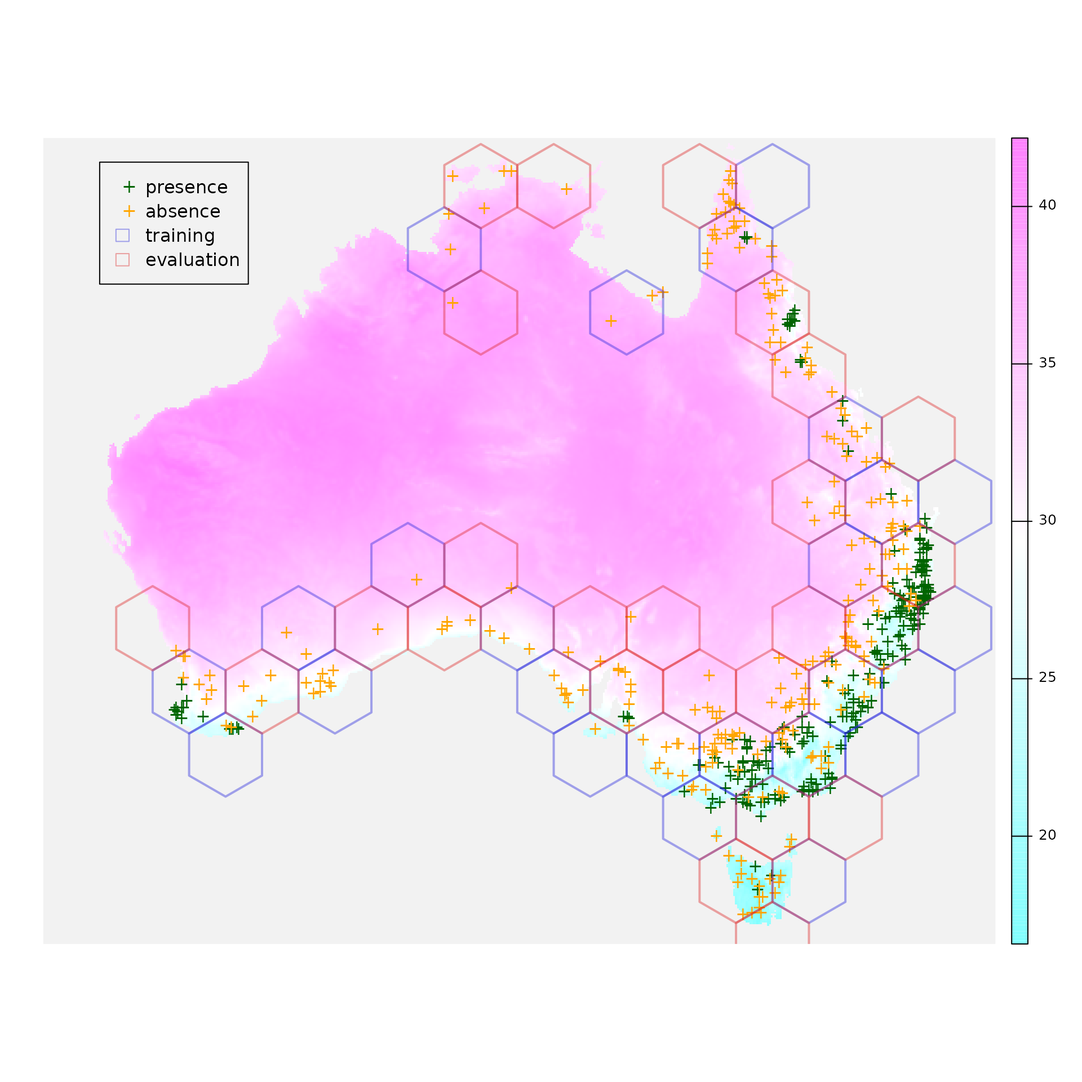
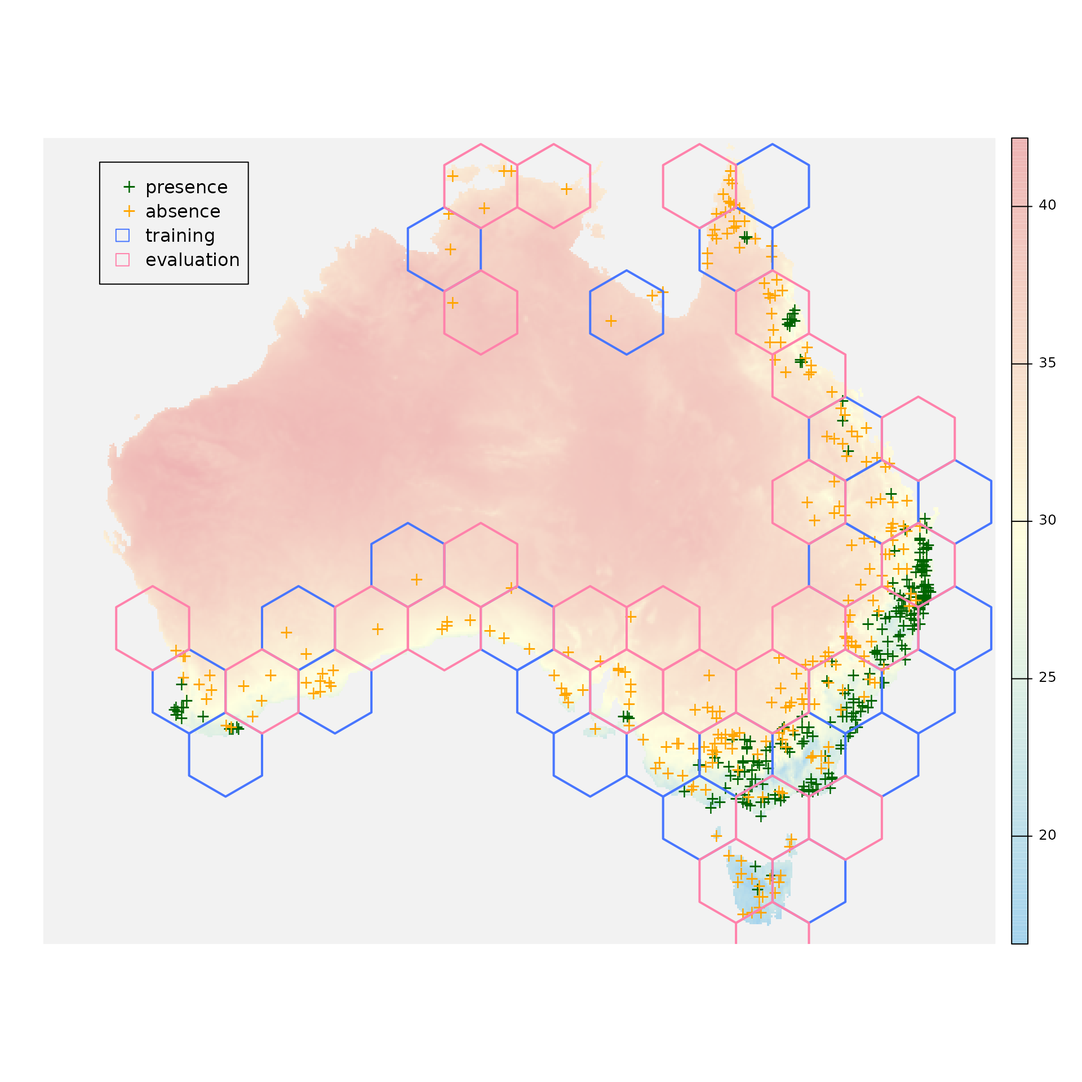
Deploying to gh-pages from @ bfakos/confcons@ba46d39bda17f9d1cd0ccc5d429870897419a0bd 🚀

diff --git a/articles/introduction_to_confcons.html b/articles/introduction_to_confcons.html
@@ -75,7 +75,7 @@
                         <h4 data-toc-skip class="author">Ákos
 Bede-Fazekas, Imelda Somodi</h4>
             
-            <h4 data-toc-skip class="date">2024-02-26</h4>
+            <h4 data-toc-skip class="date">2024-02-27</h4>
       
       <small class="dont-index">Source: <a href="https://github.com/bfakos/confcons/blob/HEAD/vignettes/introduction_to_confcons.Rmd" class="external-link"><code>vignettes/introduction_to_confcons.Rmd</code></a></small>
       <div class="d-none name"><code>introduction_to_confcons.Rmd</code></div>
@@ -173,7 +173,8 @@ packages were built):</p>
 <h3 id="data-preparation">Data preparation<a class="anchor" aria-label="anchor" href="#data-preparation"></a>
 </h3>
 <p>Let’s open the environmental raster that contains four climatic
-layers at 800 m resolution in UTM projection:</p>
+layers at 5’ resolution in GDA2020 (Geocentric Datum of Australia)
+projection:</p>
 <div class="sourceCode" id="cb3"><pre class="downlit sourceCode r">
 <code class="sourceCode R"><span><span class="va">environment</span> <span class="op">&lt;-</span> <span class="fu">terra</span><span class="fu">::</span><span class="fu"><a href="https://rspatial.github.io/terra/reference/rast.html" class="external-link">rast</a></span><span class="op">(</span><span class="fu"><a href="https://rdrr.io/r/base/list.files.html" class="external-link">list.files</a></span><span class="op">(</span><span class="fu"><a href="https://rdrr.io/r/base/system.file.html" class="external-link">system.file</a></span><span class="op">(</span><span class="st">"extdata/au/"</span>, package <span class="op">=</span> <span class="st">"blockCV"</span><span class="op">)</span>, full.names <span class="op">=</span> <span class="cn">TRUE</span><span class="op">)</span><span class="op">)</span></span>
 <span><span class="fu">terra</span><span class="fu">::</span><span class="fu"><a href="https://rspatial.github.io/terra/reference/dimensions.html" class="external-link">nlyr</a></span><span class="op">(</span><span class="va">environment</span><span class="op">)</span></span>
@@ -205,28 +206,28 @@ Features:</p>
 <span>                              size <span class="op">=</span> <span class="fl">350000</span>,</span>
 <span>                              k <span class="op">=</span> <span class="fl">2</span>,</span>
 <span>                              selection <span class="op">=</span> <span class="st">"random"</span>,</span>
-<span>                                                            iteration <span class="op">=</span> <span class="fl">50</span>,</span>
+<span>                              iteration <span class="op">=</span> <span class="fl">50</span>,</span>
 <span>                              seed <span class="op">=</span> <span class="fl">12345</span>,</span>
 <span>                              progress <span class="op">=</span> <span class="cn">FALSE</span>,</span>
 <span>                              report <span class="op">=</span> <span class="cn">FALSE</span>,</span>
-<span>                                                            plot <span class="op">=</span> <span class="cn">TRUE</span><span class="op">)</span></span></code></pre></div>
+<span>                              plot <span class="op">=</span> <span class="cn">TRUE</span><span class="op">)</span></span></code></pre></div>
 <p><img src="introduction_to_confcons_files/figure-html/unnamed-chunk-7-1.png" width="700"></p>
 <div class="sourceCode" id="cb7"><pre class="downlit sourceCode r">
 <code class="sourceCode R"><span><span class="va">blocks_sf</span> <span class="op">&lt;-</span> <span class="fu">sf</span><span class="fu">::</span><span class="fu"><a href="https://r-spatial.github.io/sf/reference/st_as_sf.html" class="external-link">st_as_sf</a></span><span class="op">(</span>x <span class="op">=</span> <span class="va">blocks</span><span class="op">$</span><span class="va">blocks</span><span class="op">)</span></span></code></pre></div>
 <p>Let’s see where are our presence and absence points and also which
 polygons will be used for training and which ones for evaluation:</p>
 <div class="sourceCode" id="cb8"><pre class="downlit sourceCode r">
-<code class="sourceCode R"><span><span class="fu"><a href="https://rspatial.github.io/terra/reference/plot.html" class="external-link">plot</a></span><span class="op">(</span>x <span class="op">=</span> <span class="va">environment</span><span class="op">[[</span><span class="st">"bio_5"</span><span class="op">]</span><span class="op">]</span>, axes <span class="op">=</span> <span class="cn">FALSE</span>, col <span class="op">=</span> <span class="fu"><a href="https://rdrr.io/r/grDevices/palettes.html" class="external-link">cm.colors</a></span><span class="op">(</span><span class="fl">255</span><span class="op">)</span>, colNA <span class="op">=</span> <span class="st">"gray95"</span><span class="op">)</span></span>
+<code class="sourceCode R"><span><span class="fu"><a href="https://rspatial.github.io/terra/reference/plot.html" class="external-link">plot</a></span><span class="op">(</span>x <span class="op">=</span> <span class="va">environment</span><span class="op">[[</span><span class="st">"bio_5"</span><span class="op">]</span><span class="op">]</span>, axes <span class="op">=</span> <span class="cn">FALSE</span>, col <span class="op">=</span> <span class="fu"><a href="https://rdrr.io/r/grDevices/colorRamp.html" class="external-link">colorRampPalette</a></span><span class="op">(</span><span class="fu"><a href="https://rdrr.io/r/base/c.html" class="external-link">c</a></span><span class="op">(</span><span class="st">"lightskyblue2"</span>, <span class="st">"lightyellow1"</span>, <span class="st">"rosybrown2"</span><span class="op">)</span><span class="op">)</span><span class="op">(</span><span class="fl">255</span><span class="op">)</span>, colNA <span class="op">=</span> <span class="st">"gray95"</span><span class="op">)</span></span>
 <span><span class="fu"><a href="https://rspatial.github.io/terra/reference/plot.html" class="external-link">plot</a></span><span class="op">(</span>x <span class="op">=</span> <span class="va">occurrences</span><span class="op">[</span><span class="va">occurrences</span><span class="op">$</span><span class="va">occ</span> <span class="op">==</span> <span class="fl">1</span>, <span class="op">]</span>, pch <span class="op">=</span> <span class="st">"+"</span>, col <span class="op">=</span> <span class="st">"darkgreen"</span>, add <span class="op">=</span> <span class="cn">TRUE</span><span class="op">)</span></span>
 <span><span class="fu"><a href="https://rspatial.github.io/terra/reference/plot.html" class="external-link">plot</a></span><span class="op">(</span>x <span class="op">=</span> <span class="va">occurrences</span><span class="op">[</span><span class="va">occurrences</span><span class="op">$</span><span class="va">occ</span> <span class="op">==</span> <span class="fl">0</span>, <span class="op">]</span>, pch <span class="op">=</span> <span class="st">"+"</span>, col <span class="op">=</span> <span class="st">"orange"</span>, add <span class="op">=</span> <span class="cn">TRUE</span><span class="op">)</span></span>
-<span><span class="fu"><a href="https://rspatial.github.io/terra/reference/plot.html" class="external-link">plot</a></span><span class="op">(</span>x <span class="op">=</span> <span class="fu">sf</span><span class="fu">::</span><span class="fu"><a href="https://r-spatial.github.io/sf/reference/st_geometry.html" class="external-link">st_geometry</a></span><span class="op">(</span><span class="va">blocks_sf</span><span class="op">[</span><span class="va">blocks_sf</span><span class="op">$</span><span class="va">folds</span> <span class="op">==</span> <span class="fl">1</span>, <span class="op">]</span><span class="op">)</span>, col <span class="op">=</span> <span class="st">"transparent"</span>, border <span class="op">=</span> <span class="st">"#2222DD66"</span>, lwd <span class="op">=</span> <span class="fl">2</span>, add <span class="op">=</span> <span class="cn">TRUE</span><span class="op">)</span></span>
-<span><span class="fu"><a href="https://rspatial.github.io/terra/reference/plot.html" class="external-link">plot</a></span><span class="op">(</span>x <span class="op">=</span> <span class="fu">sf</span><span class="fu">::</span><span class="fu"><a href="https://r-spatial.github.io/sf/reference/st_geometry.html" class="external-link">st_geometry</a></span><span class="op">(</span><span class="va">blocks_sf</span><span class="op">[</span><span class="va">blocks_sf</span><span class="op">$</span><span class="va">folds</span> <span class="op">==</span> <span class="fl">2</span>, <span class="op">]</span><span class="op">)</span>, col <span class="op">=</span> <span class="st">"transparent"</span>, border <span class="op">=</span> <span class="st">"#DD222266"</span>, lwd <span class="op">=</span> <span class="fl">2</span>, add <span class="op">=</span> <span class="cn">TRUE</span><span class="op">)</span></span>
+<span><span class="fu"><a href="https://rspatial.github.io/terra/reference/plot.html" class="external-link">plot</a></span><span class="op">(</span>x <span class="op">=</span> <span class="fu">sf</span><span class="fu">::</span><span class="fu"><a href="https://r-spatial.github.io/sf/reference/st_geometry.html" class="external-link">st_geometry</a></span><span class="op">(</span><span class="va">blocks_sf</span><span class="op">[</span><span class="va">blocks_sf</span><span class="op">$</span><span class="va">folds</span> <span class="op">==</span> <span class="fl">1</span>, <span class="op">]</span><span class="op">)</span>, col <span class="op">=</span> <span class="st">"transparent"</span>, border <span class="op">=</span> <span class="st">"royalblue1"</span>, lwd <span class="op">=</span> <span class="fl">2</span>, add <span class="op">=</span> <span class="cn">TRUE</span><span class="op">)</span></span>
+<span><span class="fu"><a href="https://rspatial.github.io/terra/reference/plot.html" class="external-link">plot</a></span><span class="op">(</span>x <span class="op">=</span> <span class="fu">sf</span><span class="fu">::</span><span class="fu"><a href="https://r-spatial.github.io/sf/reference/st_geometry.html" class="external-link">st_geometry</a></span><span class="op">(</span><span class="va">blocks_sf</span><span class="op">[</span><span class="va">blocks_sf</span><span class="op">$</span><span class="va">folds</span> <span class="op">==</span> <span class="fl">2</span>, <span class="op">]</span><span class="op">)</span>, col <span class="op">=</span> <span class="st">"transparent"</span>, border <span class="op">=</span> <span class="st">"palevioletred1"</span>, lwd <span class="op">=</span> <span class="fl">2</span>, add <span class="op">=</span> <span class="cn">TRUE</span><span class="op">)</span></span>
 <span><span class="fu"><a href="https://rdrr.io/r/graphics/legend.html" class="external-link">legend</a></span><span class="op">(</span>x <span class="op">=</span> <span class="op">-</span><span class="fl">2100000</span>,</span>
 <span>       y <span class="op">=</span> <span class="op">-</span><span class="fl">1300000</span>,</span>
 <span>       legend <span class="op">=</span> <span class="fu"><a href="https://rdrr.io/r/base/c.html" class="external-link">c</a></span><span class="op">(</span><span class="st">"presence"</span>, <span class="st">"absence"</span>, <span class="st">"training"</span>, <span class="st">"evaluation"</span><span class="op">)</span>,</span>
 <span>       col <span class="op">=</span> <span class="fu"><a href="https://rdrr.io/r/base/c.html" class="external-link">c</a></span><span class="op">(</span><span class="st">"darkgreen"</span>, <span class="st">"orange"</span>, <span class="cn">NA</span>, <span class="cn">NA</span><span class="op">)</span>,</span>
 <span>       pch <span class="op">=</span> <span class="fu"><a href="https://rdrr.io/r/base/c.html" class="external-link">c</a></span><span class="op">(</span><span class="st">"+"</span>, <span class="st">"+"</span>, <span class="cn">NA</span>, <span class="cn">NA</span><span class="op">)</span>,</span>
-<span>       border <span class="op">=</span> <span class="fu"><a href="https://rdrr.io/r/base/c.html" class="external-link">c</a></span><span class="op">(</span><span class="cn">NA</span>, <span class="cn">NA</span>, <span class="st">"#2222DD66"</span>, <span class="st">"#DD222266"</span><span class="op">)</span>,</span>
+<span>       border <span class="op">=</span> <span class="fu"><a href="https://rdrr.io/r/base/c.html" class="external-link">c</a></span><span class="op">(</span><span class="cn">NA</span>, <span class="cn">NA</span>, <span class="st">"royalblue1"</span>, <span class="st">"palevioletred1"</span><span class="op">)</span>,</span>
 <span>       fill <span class="op">=</span> <span class="fu"><a href="https://rdrr.io/r/base/c.html" class="external-link">c</a></span><span class="op">(</span><span class="cn">NA</span>, <span class="cn">NA</span>, <span class="st">"transparent"</span>, <span class="st">"transparent"</span><span class="op">)</span><span class="op">)</span></span></code></pre></div>
 <p><img src="introduction_to_confcons_files/figure-html/unnamed-chunk-8-1.png" width="960"></p>
 <p>We start to build a <code>data.frame</code> that will contain</p>
@@ -243,8 +244,8 @@ vectors of indices. We’ll use the first vector for training (and the
 second one for evaluation).</p>
 <div class="sourceCode" id="cb9"><pre class="downlit sourceCode r">
 <code class="sourceCode R"><span><span class="va">dataset</span> <span class="op">&lt;-</span> <span class="fu"><a href="https://rspatial.github.io/terra/reference/as.data.frame.html" class="external-link">as.data.frame</a></span><span class="op">(</span><span class="fu">terra</span><span class="fu">::</span><span class="fu"><a href="https://rspatial.github.io/terra/reference/extract.html" class="external-link">extract</a></span><span class="op">(</span>x <span class="op">=</span> <span class="va">environment</span>,</span>
-<span>                                                                                y <span class="op">=</span> <span class="va">occurrences</span>,</span>
-<span>                                                                                ID <span class="op">=</span> <span class="cn">FALSE</span><span class="op">)</span><span class="op">)</span></span>
+<span>                                        y <span class="op">=</span> <span class="va">occurrences</span>,</span>
+<span>                                        ID <span class="op">=</span> <span class="cn">FALSE</span><span class="op">)</span><span class="op">)</span></span>
 <span><span class="va">dataset</span><span class="op">$</span><span class="va">occurrences</span> <span class="op">&lt;-</span> <span class="va">occurrences</span><span class="op">$</span><span class="va">occ</span></span>
 <span><span class="va">dataset</span><span class="op">$</span><span class="va">training_mask</span> <span class="op">&lt;-</span> <span class="op">(</span><span class="fl">1</span><span class="op">:</span><span class="fu"><a href="https://rspatial.github.io/terra/reference/dimensions.html" class="external-link">nrow</a></span><span class="op">(</span><span class="va">occurrences</span><span class="op">)</span><span class="op">)</span> <span class="op"><a href="https://rspatial.github.io/terra/reference/match.html" class="external-link">%in%</a></span> <span class="va">blocks</span><span class="op">$</span><span class="va">folds_list</span><span class="op">[[</span><span class="fl">1</span><span class="op">]</span><span class="op">]</span><span class="op">[[</span><span class="fl">1</span><span class="op">]</span><span class="op">]</span></span>
 <span><span class="fu"><a href="https://rdrr.io/r/utils/str.html" class="external-link">str</a></span><span class="op">(</span><span class="va">dataset</span><span class="op">)</span></span>
@@ -265,7 +266,8 @@ example, we will create two simple models:</p>
 <ul>
 <li>a Generalized Linear Model (GLM) with a linear formula (i.e.,
 without interactions) and stepwise predictor selection, and</li>
-<li>a Random Forest (RF) model with 1000, 3-level trees.</li>
+<li>a Random Forest (RF) model with 10000, 8-level trees (the parameters
+were deliberately set to obtain an overfitted model).</li>
 </ul>
 <div class="sourceCode" id="cb10"><pre class="downlit sourceCode r">
 <code class="sourceCode R"><span><span class="va">linear_formula</span> <span class="op">&lt;-</span> <span class="fu"><a href="https://rdrr.io/r/stats/formula.html" class="external-link">as.formula</a></span><span class="op">(</span><span class="fu"><a href="https://rdrr.io/r/base/paste.html" class="external-link">paste0</a></span><span class="op">(</span><span class="st">"occurrences ~ "</span>, <span class="fu"><a href="https://rdrr.io/r/base/paste.html" class="external-link">paste</a></span><span class="op">(</span><span class="va">predictors</span>, collapse <span class="op">=</span> <span class="st">" + "</span><span class="op">)</span><span class="op">)</span><span class="op">)</span></span>
@@ -285,9 +287,10 @@ RF model:</p>
 <div class="sourceCode" id="cb11"><pre class="downlit sourceCode r">
 <code class="sourceCode R"><span><span class="va">model_rf</span> <span class="op">&lt;-</span> <span class="fu">ranger</span><span class="fu">::</span><span class="fu"><a href="http://imbs-hl.github.io/ranger/reference/ranger.html" class="external-link">ranger</a></span><span class="op">(</span>formula <span class="op">=</span> <span class="va">linear_formula</span>,</span>
 <span>                           data <span class="op">=</span> <span class="va">dataset</span><span class="op">[</span><span class="va">dataset</span><span class="op">$</span><span class="va">training_mask</span>, <span class="op">]</span>,</span>
-<span>                           num.trees <span class="op">=</span> <span class="fl">1000</span>,</span>
+<span>                           num.trees <span class="op">=</span> <span class="fl">10000</span>,</span>
 <span>                           min.node.size <span class="op">=</span> <span class="fl">10</span>,</span>
-<span>                           max.depth <span class="op">=</span> <span class="fl">3</span>,</span>
+<span>                           max.depth <span class="op">=</span> <span class="fl">8</span>,</span>
+<span>                           seed <span class="op">=</span> <span class="fl">12345</span>,</span>
 <span>                           verbose <span class="op">=</span> <span class="cn">FALSE</span>,</span>
 <span>                           classification <span class="op">=</span> <span class="cn">FALSE</span><span class="op">)</span></span>
 <span><span class="va">dataset</span><span class="op">$</span><span class="va">predictions_rf</span> <span class="op">&lt;-</span> <span class="fu"><a href="https://rspatial.github.io/terra/reference/predict.html" class="external-link">predict</a></span><span class="op">(</span>object <span class="op">=</span> <span class="va">model_rf</span>,</span>
@@ -299,7 +302,7 @@ RF model:</p>
 <span><span class="co">#&gt;  $ occurrences    : int  0 0 1 1 0 0 0 0 1 0 ...</span></span>
 <span><span class="co">#&gt;  $ training_mask  : logi  TRUE TRUE FALSE FALSE TRUE TRUE ...</span></span>
 <span><span class="co">#&gt;  $ predictions_glm: num  0.444 0.309 0.424 0.32 0.297 ...</span></span>
-<span><span class="co">#&gt;  $ predictions_rf : num  0.149011 0.636307 0.877928 0.003128 0.000952 ...</span></span></code></pre></div>
+<span><span class="co">#&gt;  $ predictions_rf : num  0.059859 0.334737 0.875771 0.00106 0.000338 ...</span></span></code></pre></div>
 </div>
 <div class="section level3">
 <h3 id="evaluation-and-interpretation">Evaluation and interpretation<a class="anchor" aria-label="anchor" href="#evaluation-and-interpretation"></a>
@@ -323,10 +326,10 @@ returns two values (i.e., a named numeric vector of length 2).</p>
 <span><span class="op">(</span><span class="va">thresholds_rf</span> <span class="op">&lt;-</span> <span class="fu"><a href="../reference/thresholds.html">thresholds</a></span><span class="op">(</span>observations <span class="op">=</span> <span class="va">dataset</span><span class="op">$</span><span class="va">occurrences</span>,</span>
 <span>                             predictions <span class="op">=</span> <span class="va">dataset</span><span class="op">$</span><span class="va">predictions_rf</span><span class="op">)</span><span class="op">)</span></span>
 <span><span class="co">#&gt; threshold1 threshold2 </span></span>
-<span><span class="co">#&gt;  0.1923477  0.7126956</span></span></code></pre></div>
-<p>Between 0.14 and 0.82, the predictions of the GLM model can be
+<span><span class="co">#&gt;  0.1312359  0.7452445</span></span></code></pre></div>
+<p>Between 0.30 and 0.60, the predictions of the GLM model can be
 treated as uncertain predictions. The same holds for the RF model
-between 0.18 and 0.77.</p>
+between 0.13 and 0.75.</p>
 <p>Now we calculate two of the proposed evaluation measures, confidence
 in positive predictions (CPP) and confidence in predictions (CP). Both
 should be calculated using the evaluation subset. Function
@@ -354,8 +357,8 @@ will perfectly suit for this purpose.</p>
 should use CPP or CP for describing the confidence of our model depends
 on the main aim of our model. Confidence should be between
 <code>0</code> and <code>1</code>; the higher value indicates more
-confidence. Our GLM is not super confident, but the value is closer to
-<code>1</code>, so it seems more or less OK.</p>
+confidence. Our GLM is not super confident, since both CPP and CP are
+relatively far from <code>1</code>.</p>
 <p>We are a bit curious whether the confidence of the model is higher or
 lower if is calculated for the training subset.</p>
 <div class="sourceCode" id="cb14"><pre class="downlit sourceCode r">
@@ -382,7 +385,7 @@ normal. The higher the consistency is (i.e., the closer to
 <code>0</code>), the more consistent the model is. Positive value might
 be an artifact or indicates that the training and evaluation subsets
 were accidentally swapped.</p>
-<p>Now we get familiar with the three core functions of the package:
+<p>We have got familiar with the three core functions of the package:
 <code><a href="../reference/thresholds.html">thresholds()</a></code>, <code><a href="../reference/confidence.html">confidence()</a></code> and
 <code><a href="../reference/consistency.html">consistency()</a></code>. The question is right if we ask: <em>why
 should we call three different functions several times if we want to get
@@ -410,18 +413,18 @@ negation (<code>!</code>) will perfectly match this purpose:</p>
 <span>         predictions <span class="op">=</span> <span class="va">dataset</span><span class="op">$</span><span class="va">predictions_rf</span>,</span>
 <span>         evaluation_mask <span class="op">=</span> <span class="op">!</span><span class="va">dataset</span><span class="op">$</span><span class="va">training_mask</span><span class="op">)</span></span>
 <span><span class="co">#&gt;   CP_train    CP_eval        DCP  CPP_train   CPP_eval       DCPP </span></span>
-<span><span class="co">#&gt;  0.8455285  0.6666667 -0.1788618  0.8455285  0.5918367 -0.2536917</span></span></code></pre></div>
+<span><span class="co">#&gt;  0.8373984  0.5833333 -0.2540650  0.8373984  0.4680851 -0.3693133</span></span></code></pre></div>
 <p>The result is a named <code>numeric</code> vector containing all of
 the measures. It is more than needed. It is recommended to use
 ‘CPP_eval’ + ‘DCPP’, or, if predicted absences are as important as
 predicted presences in our research, ‘CP_eval’ + ‘DCP’.</p>
-<p>We can see that RF model is really confident in its predictions if
-the training subset is studied, but this confidence sharply drops when
-switching to the evaluation subset. Hence, the RF model is not too
-consistent, which warns us that transferability issues might potentially
-occurs if used for extrapolation. The GLM model is much more consistent,
-so we should select that one for extrapolation, e.g. in a climate change
-impact study.</p>
+<p>We can see that RF model is really confident (0.84) in its
+predictions if the training subset is studied, but this confidence
+sharply drops when switching to the evaluation subset (to 0.47). Hence,
+the RF model is not too consistent, which warns us that transferability
+issues might potentially occurs if used for extrapolation. The GLM model
+is much more consistent (-0.19 vs. -0.37), so we should select that one
+for extrapolation, e.g. in a climate change impact study.</p>
 <p>If we have installed package ‘ROCR’, <code><a href="../reference/measures.html">measures()</a></code> can
 provide the Area Under the ROC Curve (AUC) and the maximum of True Skill
 Statistic (maxTSS) for us. We should simply switch the parameter
@@ -449,10 +452,10 @@ suited for our analysis purposes.</p>
 <span>         evaluation_mask <span class="op">=</span> <span class="op">!</span><span class="va">dataset</span><span class="op">$</span><span class="va">training_mask</span>,</span>
 <span>         goodness <span class="op">=</span> <span class="cn">TRUE</span>,</span>
 <span>         df <span class="op">=</span> <span class="cn">TRUE</span><span class="op">)</span></span>
-<span><span class="co">#&gt;    CP_train   CP_eval        DCP CPP_train  CPP_eval       DCPP      AUC</span></span>
-<span><span class="co">#&gt; 1 0.8455285 0.6666667 -0.1788618 0.8455285 0.5918367 -0.2536917 0.813645</span></span>
+<span><span class="co">#&gt;    CP_train   CP_eval       DCP CPP_train  CPP_eval       DCPP       AUC</span></span>
+<span><span class="co">#&gt; 1 0.8373984 0.5833333 -0.254065 0.8373984 0.4680851 -0.3693133 0.8131043</span></span>
 <span><span class="co">#&gt;      maxTSS</span></span>
-<span><span class="co">#&gt; 1 0.5584606</span></span></code></pre></div>
+<span><span class="co">#&gt; 1 0.5577608</span></span></code></pre></div>
 <p>For example, if we have several models (i.e., two in this example),
 we can simply <code><a href="https://rdrr.io/r/base/cbind.html" class="external-link">rbind()</a></code> these rows in a <code>for</code> loop
 or a <code><a href="https://rdrr.io/r/base/lapply.html" class="external-link">lapply()</a></code>:</p>
@@ -474,7 +477,7 @@ or a <code><a href="https://rdrr.io/r/base/lapply.html" class="external-link">la
 <span><span class="va">conf_and_cons_df</span></span>
 <span><span class="co">#&gt;      CP_train   CP_eval        DCP CPP_train  CPP_eval       DCPP</span></span>
 <span><span class="co">#&gt; glm 0.6829268 0.5750000 -0.1079268 0.6803279 0.4900000 -0.1903279</span></span>
-<span><span class="co">#&gt; rf  0.8455285 0.6666667 -0.1788618 0.8455285 0.5918367 -0.2536917</span></span></code></pre></div>
+<span><span class="co">#&gt; rf  0.8373984 0.5833333 -0.2540650 0.8373984 0.4680851 -0.3693133</span></span></code></pre></div>
 <p>The <code><a href="https://rdrr.io/r/base/lapply.html" class="external-link">lapply()</a></code> solution:</p>
 <div class="sourceCode" id="cb20"><pre class="downlit sourceCode r">
 <code class="sourceCode R"><span><span class="va">conf_and_cons_list</span> <span class="op">&lt;-</span> <span class="fu"><a href="https://rdrr.io/r/base/lapply.html" class="external-link">lapply</a></span><span class="op">(</span>X <span class="op">=</span> <span class="va">model_IDs</span>,</span>
@@ -491,7 +494,7 @@ or a <code><a href="https://rdrr.io/r/base/lapply.html" class="external-link">la
 <span><span class="va">conf_and_cons_df</span></span>
 <span><span class="co">#&gt;      CP_train   CP_eval        DCP CPP_train  CPP_eval       DCPP</span></span>
 <span><span class="co">#&gt; glm 0.6829268 0.5750000 -0.1079268 0.6803279 0.4900000 -0.1903279</span></span>
-<span><span class="co">#&gt; rf  0.8455285 0.6666667 -0.1788618 0.8455285 0.5918367 -0.2536917</span></span></code></pre></div>
+<span><span class="co">#&gt; rf  0.8373984 0.5833333 -0.2540650 0.8373984 0.4680851 -0.3693133</span></span></code></pre></div>
 </div>
 </div>
   </main><aside class="col-md-3"><nav id="toc"><h2>On this page</h2>
